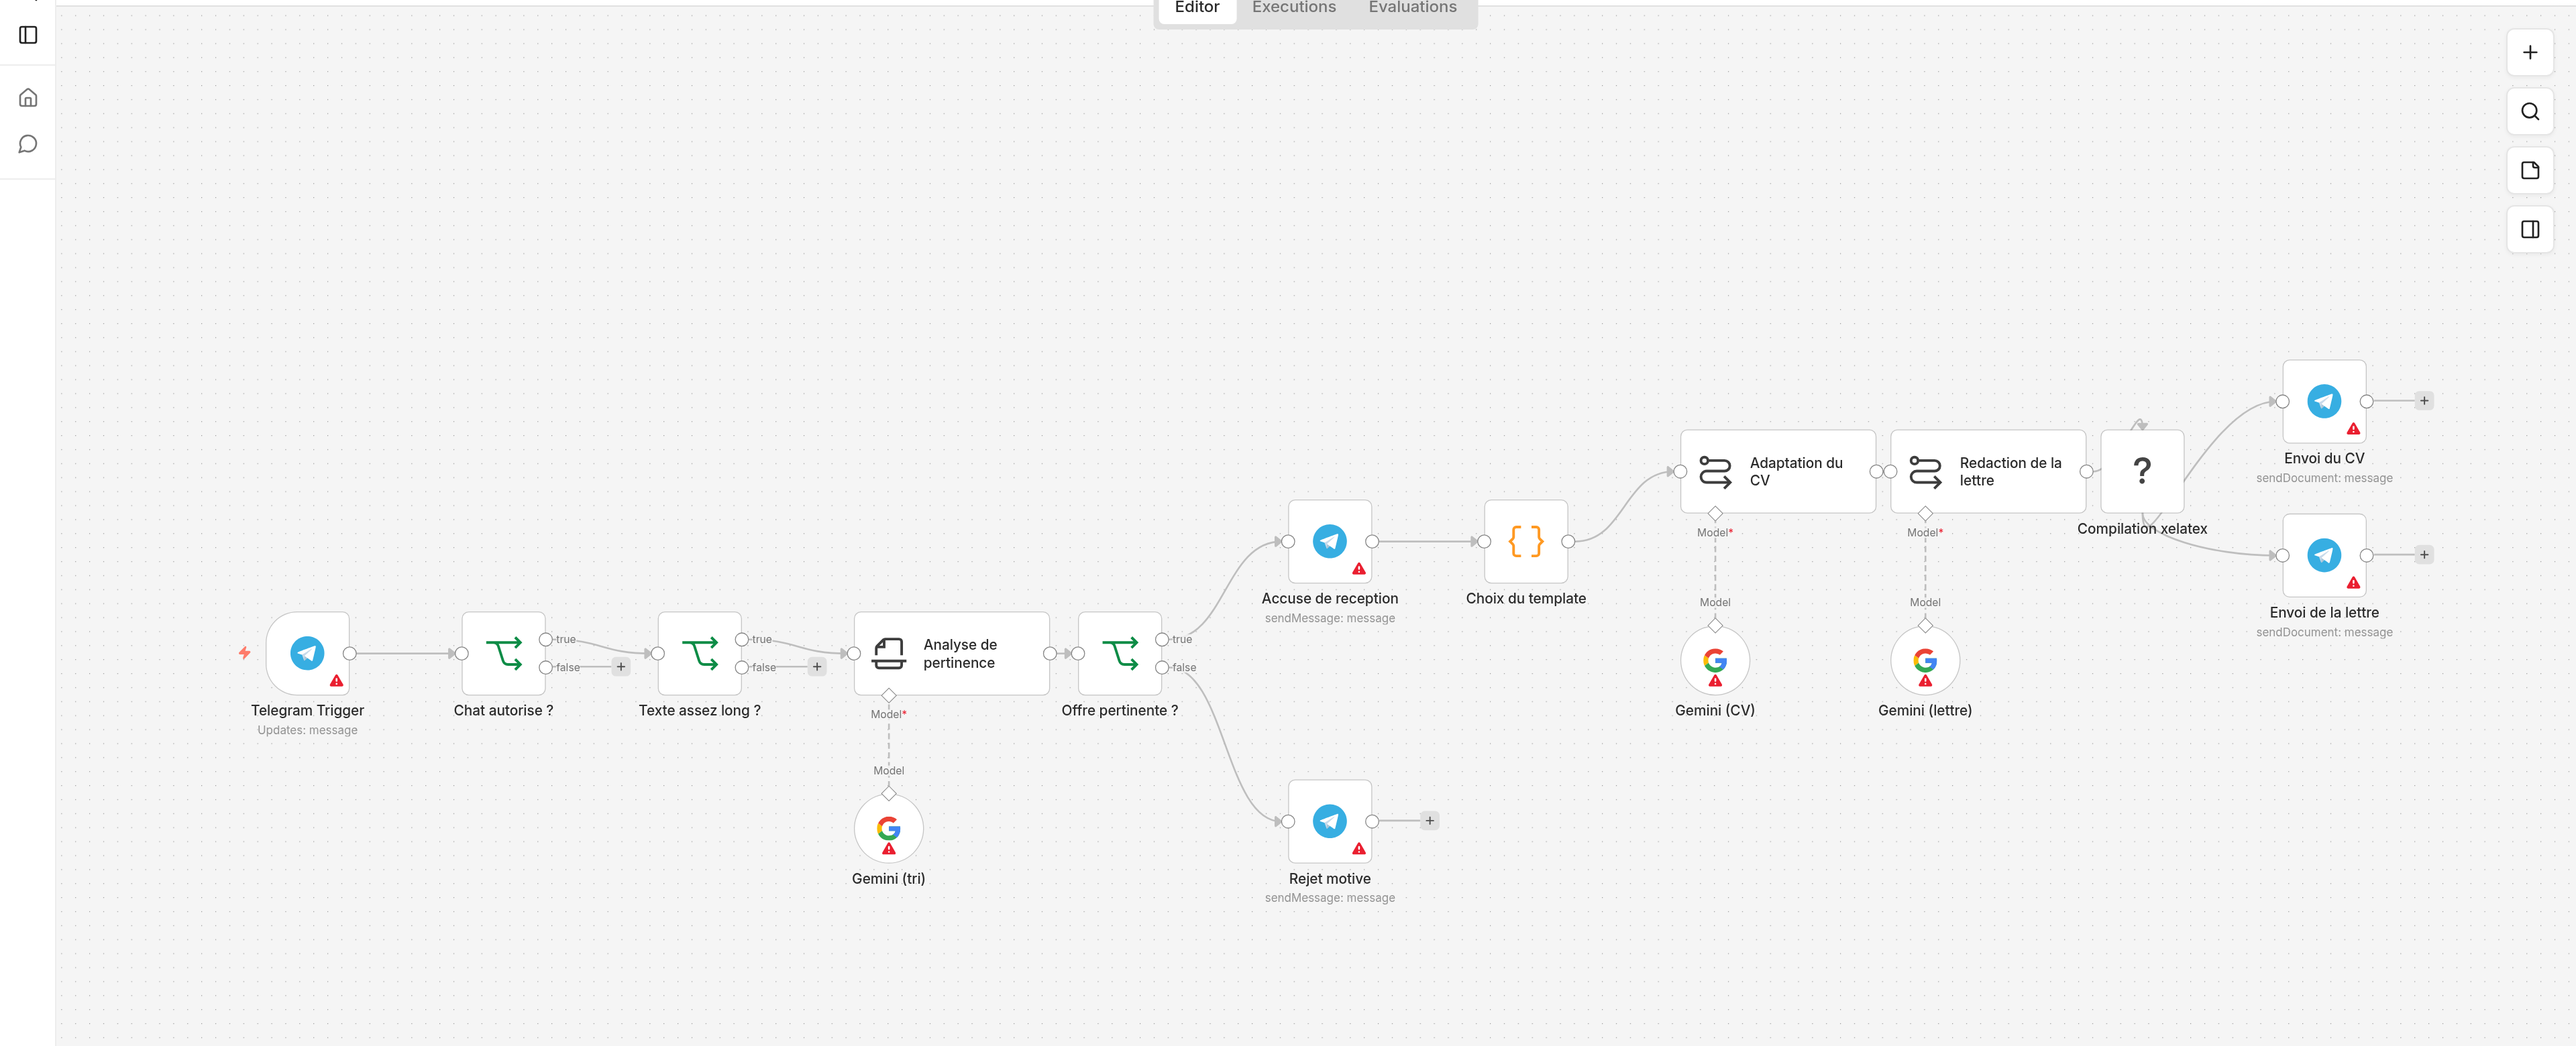
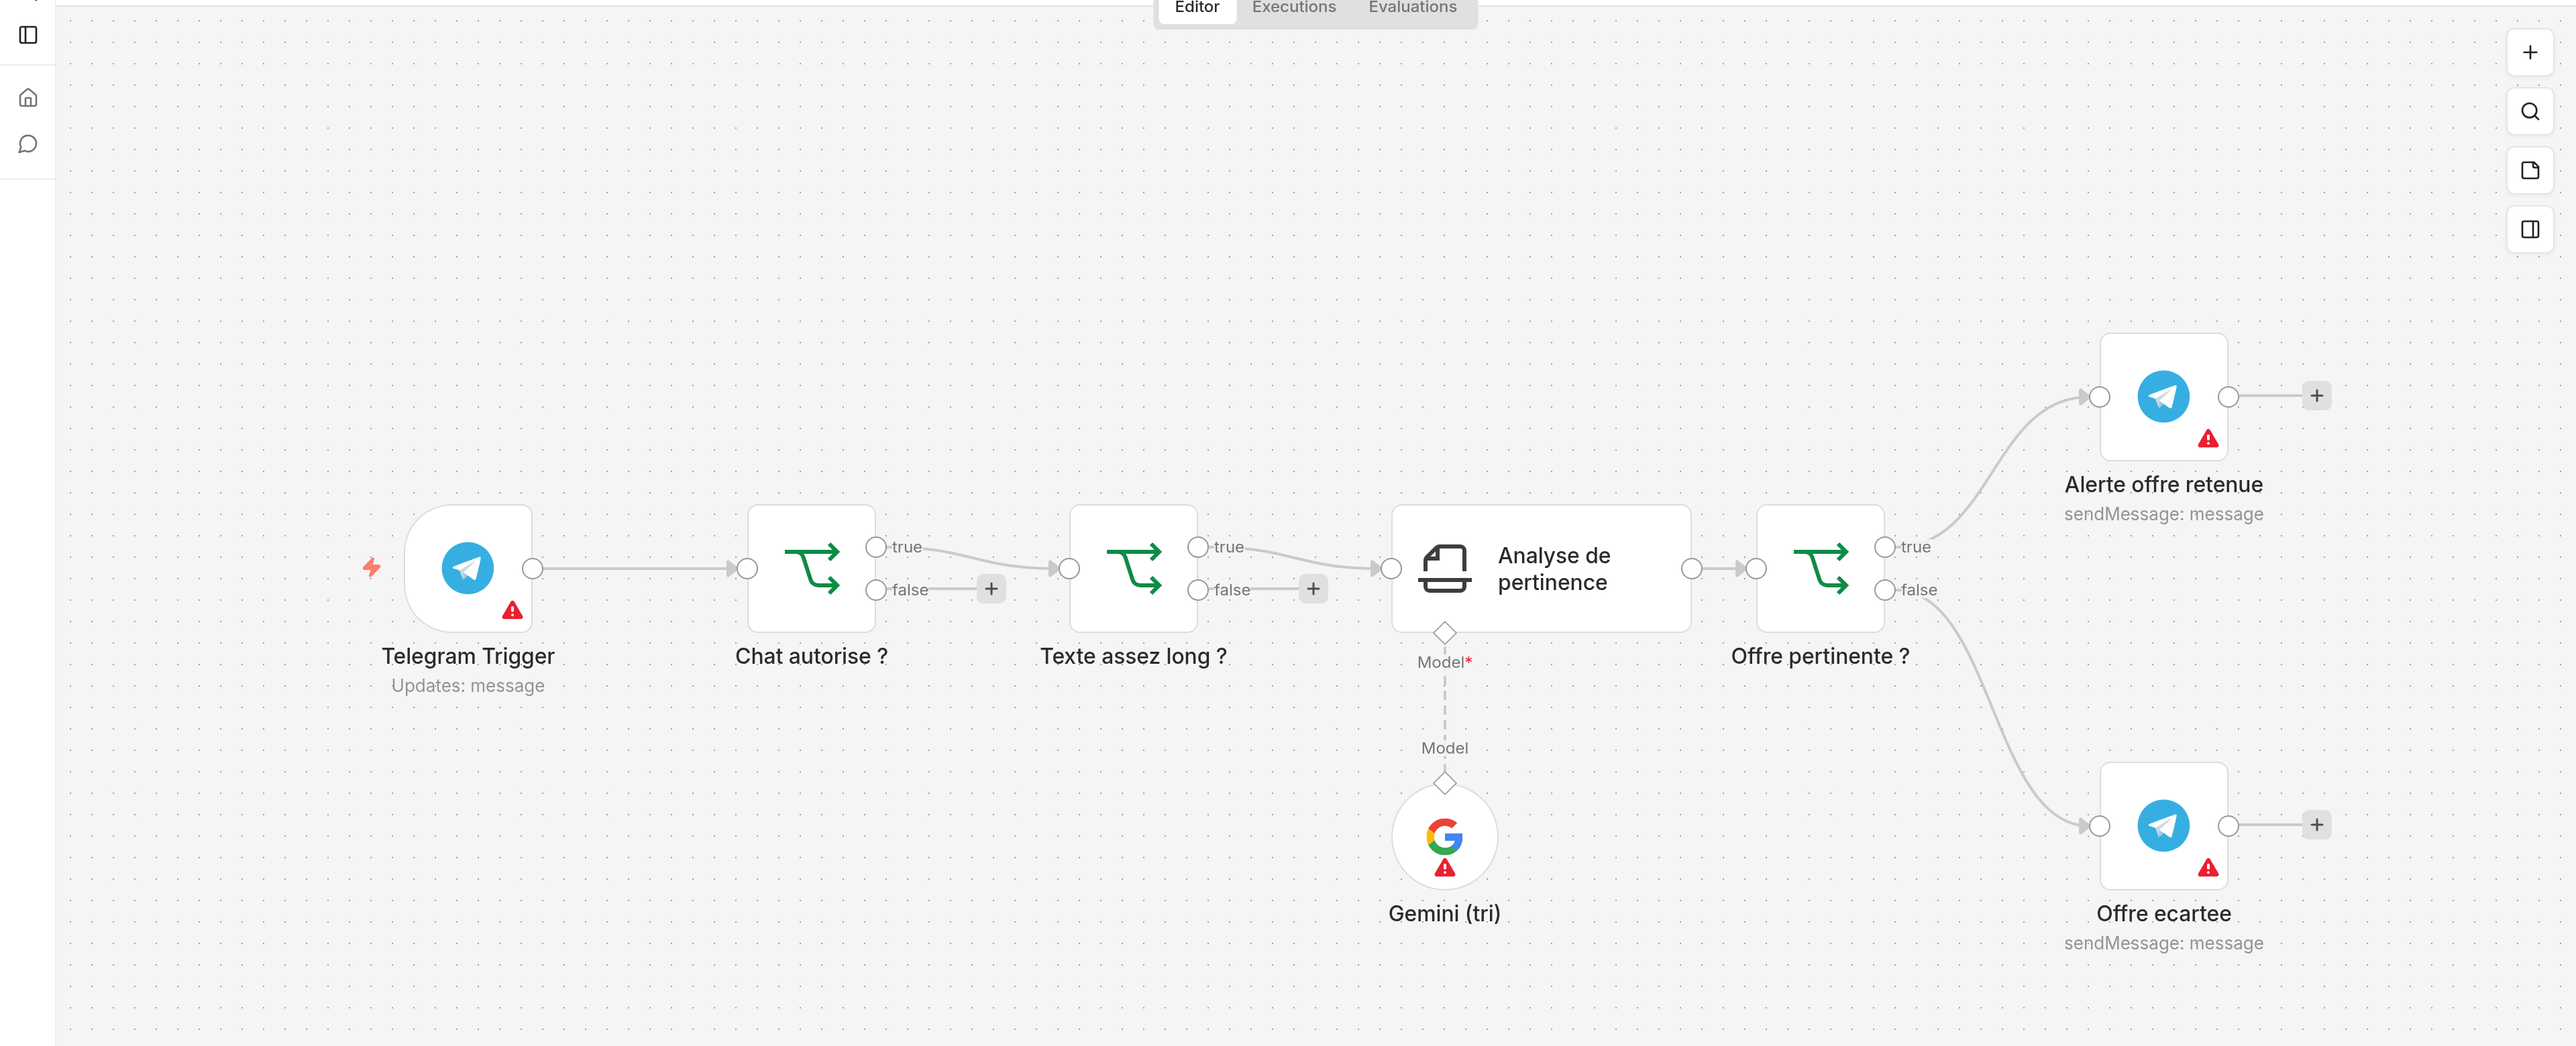
Recentre le workflow n8n sur la veille et le tri des offres
Le workflow n8n se limite desormais a la reception de l'offre, au filtrage
et au tri de pertinence par Gemini, avec notification retenue ou ecartee.
Capture et fichier n8n-workflow.json mis a jour en consequence.

diff --git a/README.md b/README.md
@@ -88,13 +88,12 @@ Playwright · LaTeX/XeLaTeX · Docker · systemd
 
 ## Version n8n
 
-Le même flux existe aussi en workflow n8n importable (`deploy/n8n-workflow.json`,
-n8n 2.18). Le Telegram Trigger reçoit l'offre, deux nœuds IF filtrent le chat
-autorisé puis la longueur du texte, un Information Extractor branché sur Gemini
-2.5 Flash produit le verdict de pertinence, un IF route vers accusé de réception
-ou rejet, un nœud Code choisit le template, deux Chain LLM (Gemini) rédigent le
-CV et la lettre, un Execute Command lance la compilation xelatex, et deux nœuds
-Telegram renvoient les PDF.
+Le tri des offres existe aussi en workflow n8n importable
+(`deploy/n8n-workflow.json`, n8n 2.18). Le Telegram Trigger reçoit l'offre, deux
+nœuds IF filtrent le chat autorisé puis la longueur du texte, un Information
+Extractor branché sur Gemini 2.5 Flash produit le verdict de pertinence, et un
+dernier IF route vers une alerte « offre retenue » ou un message « offre écartée »
+avec la raison.
 
 ![Workflow n8n](docs/img/04-n8n-canvas.png)
 
@@ -104,8 +103,7 @@ Import :
 docker exec -i n8n n8n import:workflow --input=/chemin/n8n-workflow.json
 ```
 
-Les credentials Telegram et Google Gemini se renseignent ensuite dans l'UI, et le
-nœud Execute Command appelle un script `compile.sh` côté hôte pour xelatex.
+Les credentials Telegram et Google Gemini se renseignent ensuite dans l'UI.
 
 ## Captures
 
